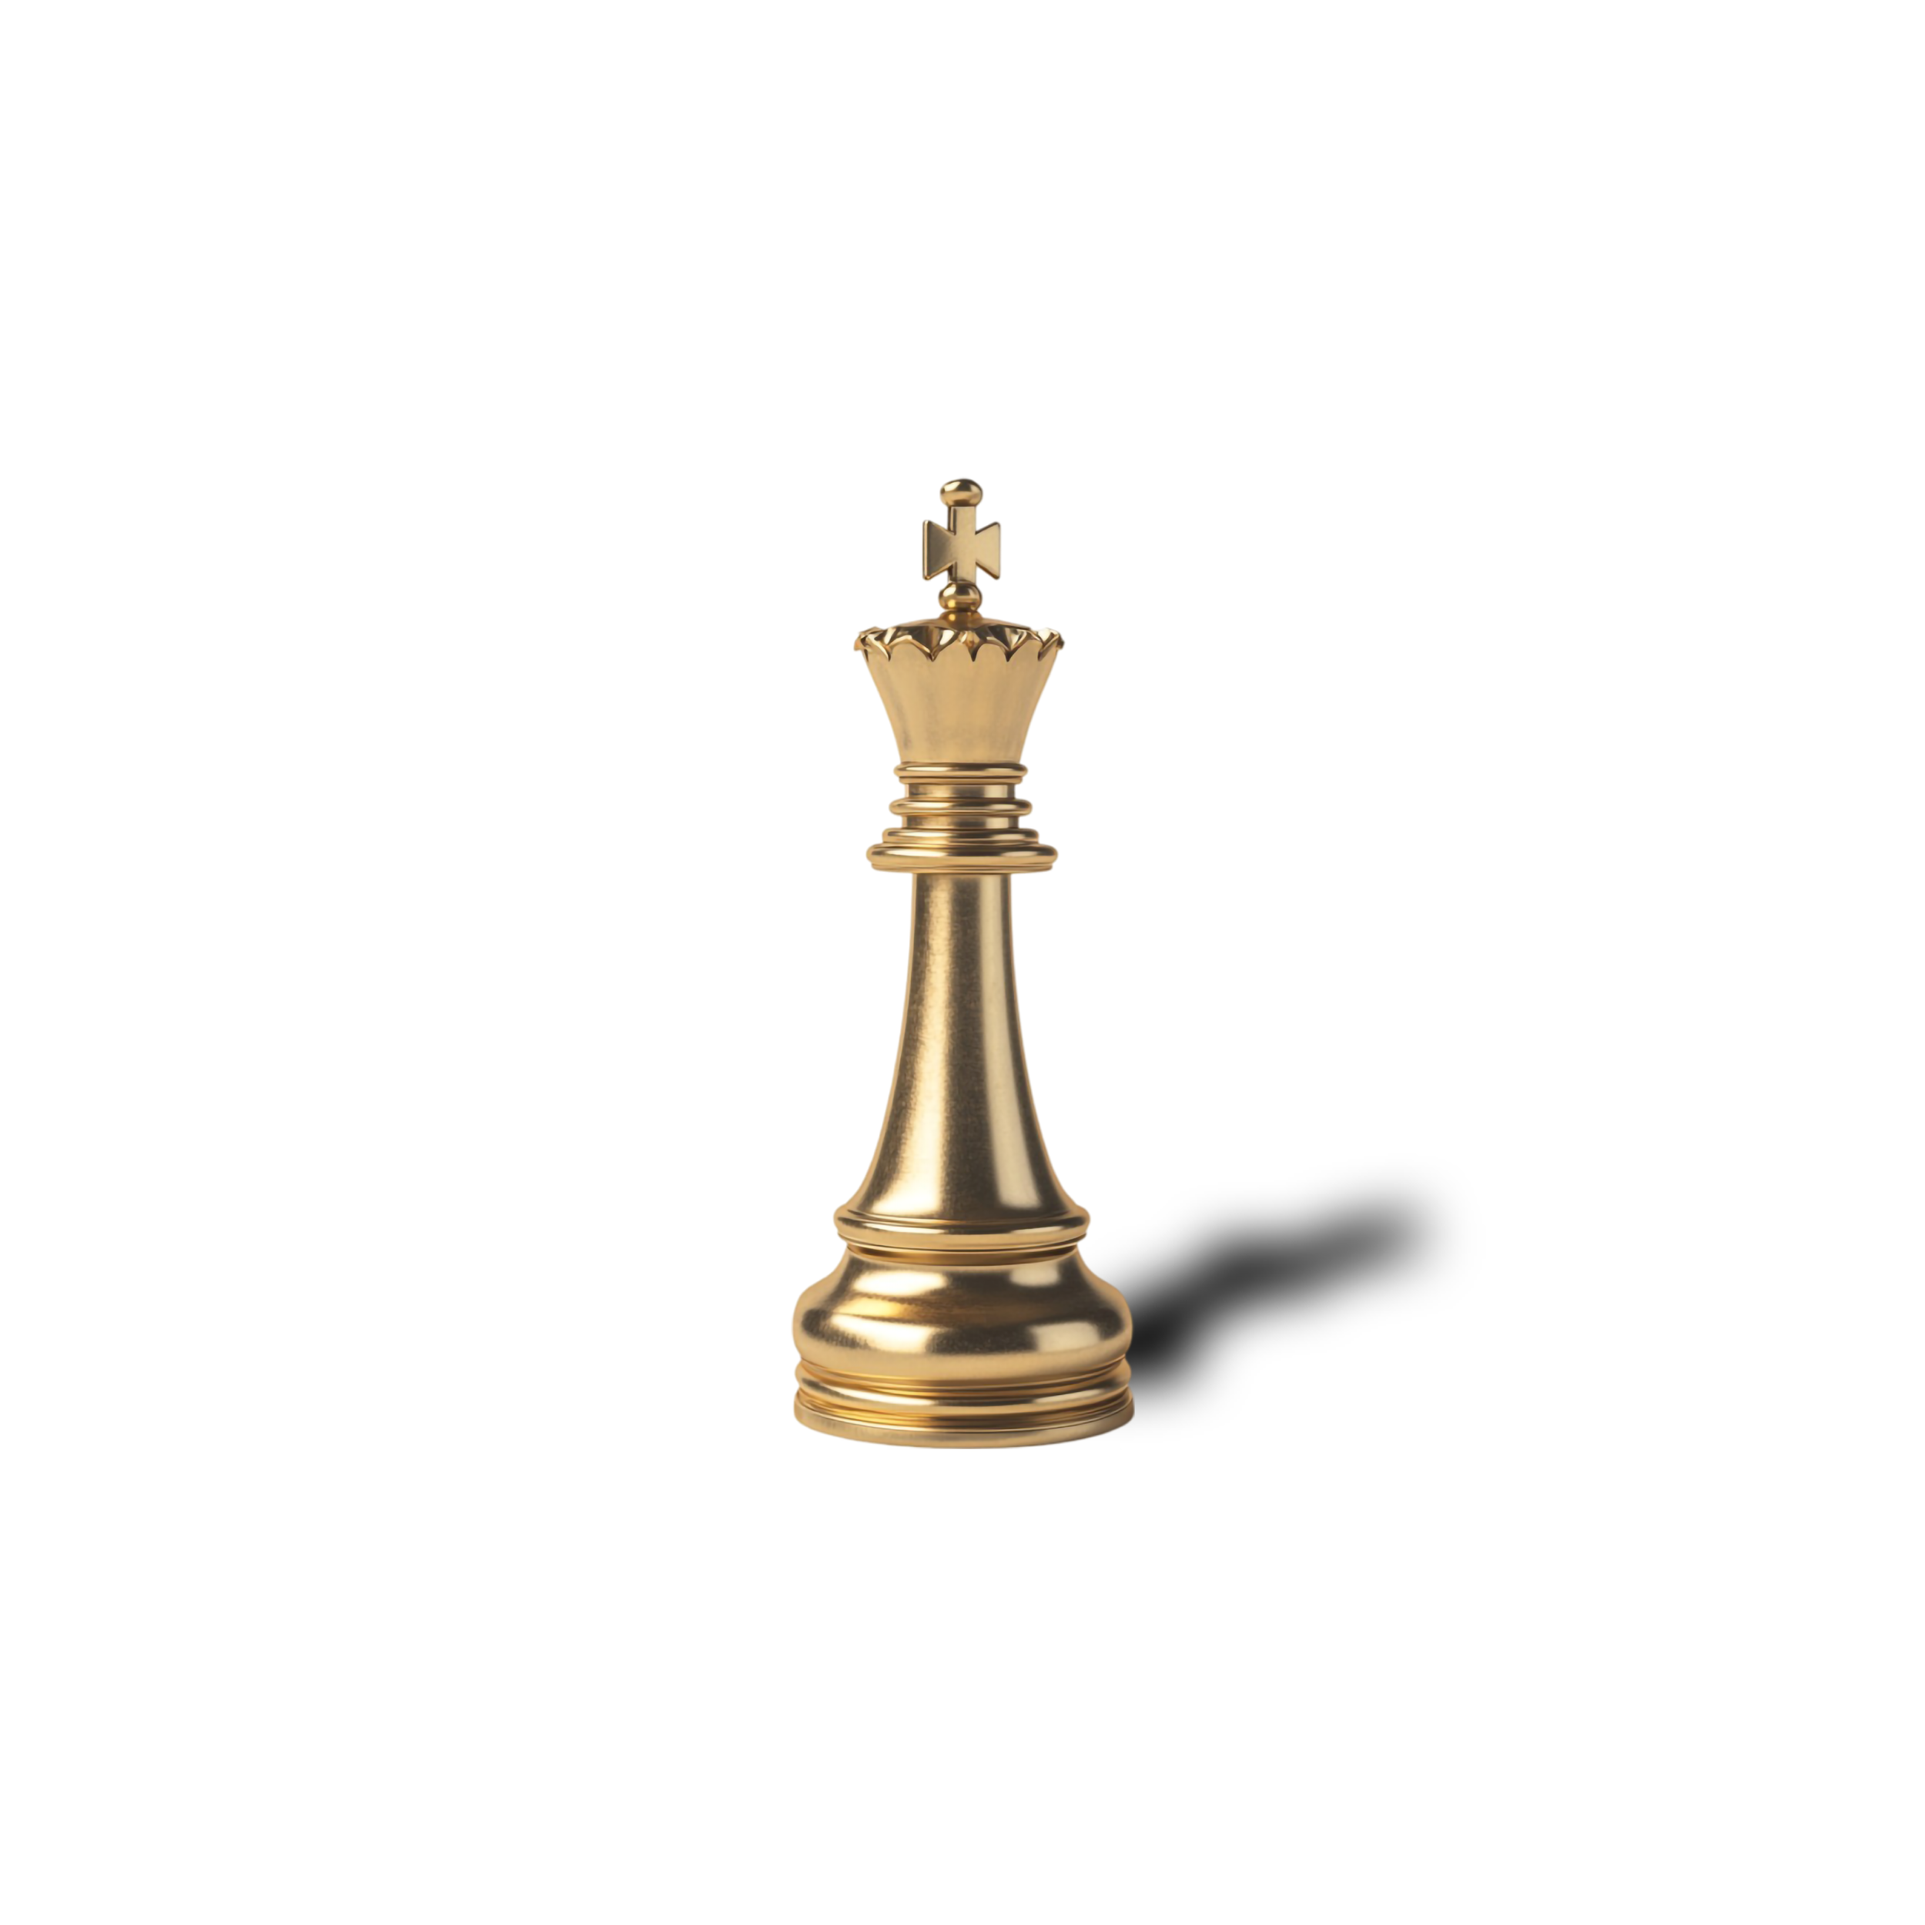
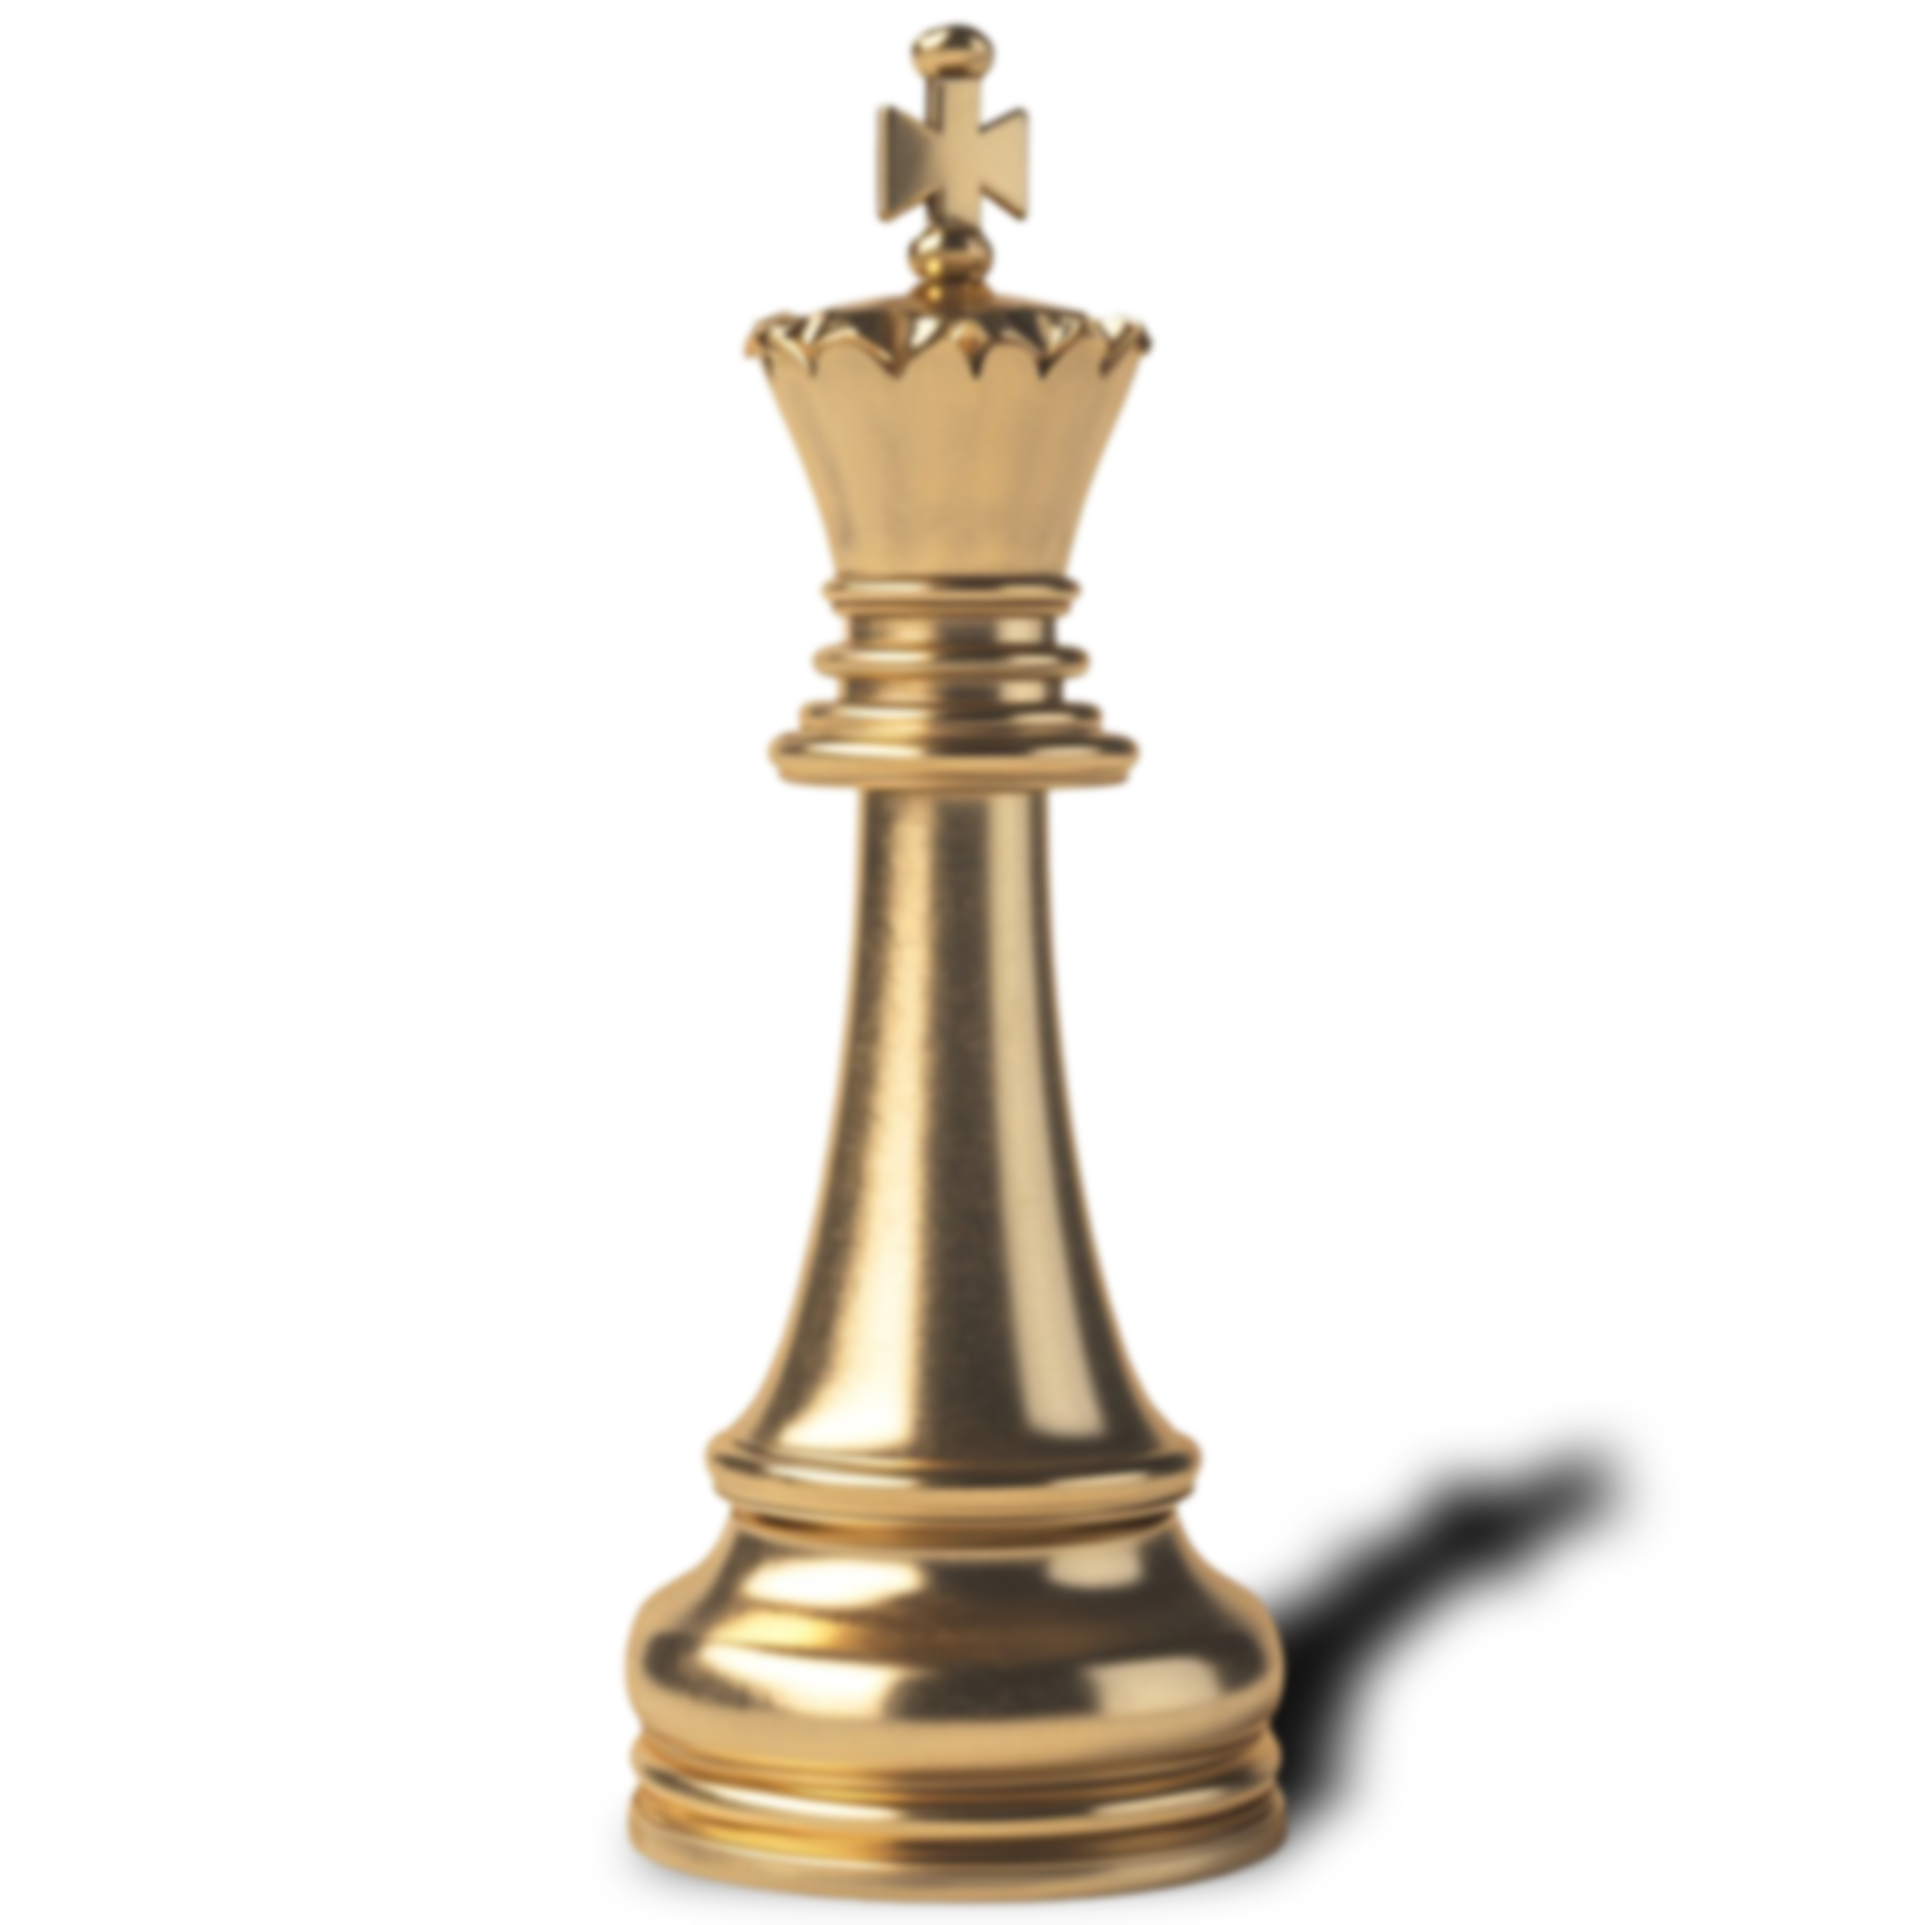
removed lagging in page transitions

Changed region(s): [[0.312, 0.0, 0.8736, 0.9984]]

diff --git a/lib/features/about_dev/presentation/view/about_dev_view.dart b/lib/features/about_dev/presentation/view/about_dev_view.dart
@@ -1,58 +1,104 @@
 import 'package:chess/common/colors.dart';
 import 'package:chess/common/utils.dart';
-import 'package:chess/features/about_dev/presentation/widgets/pfp_widget.dart';
 import 'package:chess/features/about_dev/presentation/widgets/social_link_widget.dart';
 import 'package:flutter/material.dart';
-
-class AboutDev extends StatelessWidget {
+class AboutDev extends StatefulWidget {
   const AboutDev({super.key});
 
   @override
+  State<AboutDev> createState() => _AboutDevState();
+}
+
+class _AboutDevState extends State<AboutDev> {
+  late Future<void> _imagePreloadFuture;
+
+  @override
+  void initState() {
+    super.initState();
+    _imagePreloadFuture = _preloadImages();
+  }
+
+  Future<void> _preloadImages() async {
+    await precacheImage(
+      const AssetImage('lib/assets/anuj.jpg'),
+      context,
+    );
+  }
+
+  @override
   Widget build(BuildContext context) {
-    return SafeArea(
-      child: Scaffold(
-        backgroundColor: AppColors.darkGreenBackgroundColor,
-        body: Center(
-          child: Padding(
-            padding:
-                EdgeInsets.symmetric(horizontal: getDynamicWidth(context, 5)),
-            child: Column(
-              mainAxisAlignment: MainAxisAlignment.center,
-              crossAxisAlignment: CrossAxisAlignment.center,
-              children: [
-                Text(
-                  'Meet the Dev',
-                  style: TextStyle(
-                    fontSize: getDynamicHeight(context, 3.5),
-                    fontWeight: FontWeight.bold,
-                    color: Colors.white,
-                  ),
+    final double horizontalPadding = getDynamicWidth(context, 5);
+    final double headingFontSize = getDynamicHeight(context, 3.5);
+    final double descriptionFontSize = getDynamicHeight(context, 1.5);
+
+    return FutureBuilder<void>(
+      future: _imagePreloadFuture,
+      builder: (context, snapshot) {
+        if (snapshot.connectionState == ConnectionState.waiting) {
+          return const Center(child: CircularProgressIndicator());
+        }
+
+        return SafeArea(
+          child: Scaffold(
+            backgroundColor: AppColors.darkGreenBackgroundColor,
+            body: Center(
+              child: Padding(
+                padding: EdgeInsets.symmetric(horizontal: horizontalPadding),
+                child: Column(
+                  mainAxisAlignment: MainAxisAlignment.center,
+                  children: [
+                    Text(
+                      'Meet the Dev',
+                      style: TextStyle(
+                        fontSize: headingFontSize,
+                        fontWeight: FontWeight.bold,
+                        color: Colors.white,
+                      ),
+                    ),
+                    SizedBox(height: getDynamicHeight(context, 0.5)),
+                    Container(
+                      height: getDynamicHeight(context, 0.15),
+                      width: getDynamicWidth(context, 45),
+                      color: Colors.white,
+                    ),
+                    SizedBox(height: getDynamicHeight(context, 3)),
+                    CircleAvatar(
+                      radius: getDynamicWidth(context, 30),
+                      backgroundColor: Colors.grey.shade200,
+                      child: ClipOval(
+                        child: Image.asset(
+                          'lib/assets/anuj.jpg',
+                          fit: BoxFit.cover,
+                          errorBuilder: (context, error, stackTrace) {
+                            return Icon(
+                              Icons.person,
+                              size: getDynamicWidth(context, 30),
+                            );
+                          },
+                        ),
+                      ),
+                    ),
+                    SizedBox(height: getDynamicHeight(context, 3)),
+                    Text(
+                      'Hi! I’m a full-stack app developer skilled \n'
+                      'in building industry-ready apps with \n'
+                      'Spring Boot, Flutter, Swift, & Kotlin.',
+                      style: TextStyle(
+                        fontSize: descriptionFontSize,
+                        fontWeight: FontWeight.normal,
+                        color: Colors.white,
+                      ),
+                      textAlign: TextAlign.center,
+                    ),
+                    SizedBox(height: getDynamicHeight(context, 4)),
+                    SocialLinks(),
+                  ],
                 ),
-                SizedBox(height: getDynamicHeight(context, 0.5)),
-                Container(
-                  height: getDynamicHeight(context, 0.15),
-                  width: getDynamicWidth(context, 45),
-                  color: Colors.white,
-                ),
-                SizedBox(height: getDynamicHeight(context, 3)),
-                getPfpWidget(context),
-                SizedBox(height: getDynamicHeight(context, 3)),
-                Text(
-                  'Hi! I’m a full-stack app developer skilled \n in building industry-ready apps with \nSpring Boot, Flutter, Swift, & Kotlin.',
-                  style: TextStyle(
-                    fontSize: getDynamicHeight(context, 1.5),
-                    fontWeight: FontWeight.normal,
-                    color: Colors.white,
-                  ),
-                  textAlign: TextAlign.center,
-                ),
-                SizedBox(height: getDynamicHeight(context, 4)),
-                SocialLinks(),
-              ],
+              ),
             ),
           ),
-        ),
-      ),
+        );
+      },
     );
   }
 }

diff --git a/lib/features/homepage/presentation/widgets/king_img_painter.dart b/lib/features/homepage/presentation/widgets/king_img_painter.dart
@@ -11,8 +11,7 @@ class KingImagePainter extends CustomPainter {
 
   @override
   void paint(Canvas canvas, Size size) {
-    final Paint paint = Paint()
-      ..imageFilter = ImageFilter.blur(sigmaX: 2, sigmaY: 2);
+    final Paint paint = Paint();
 
     final image = kingImageInfo.image;
     final imageWidth = image.width.toDouble();
@@ -20,12 +19,12 @@ class KingImagePainter extends CustomPainter {
 
     // Maintain aspect ratio
     final aspectRatio = imageWidth / imageHeight;
-    final scaleHeight = getDynamicHeight(context, 150);
+    final scaleHeight = getDynamicHeight(context, 90);
     final scaleWidth = scaleHeight * aspectRatio;
 
     // Adjust X and Y offset for positioning
-    final offsetX = getDynamicWidth(context, -140); 
-    final offsetY = size.height - scaleHeight  + getDynamicHeight(context, 40);
+    final offsetX = getDynamicWidth(context, -80); 
+    final offsetY = size.height - scaleHeight;
 
     // Define rectangle with constrained placement
     final rect = Rect.fromLTWH(
